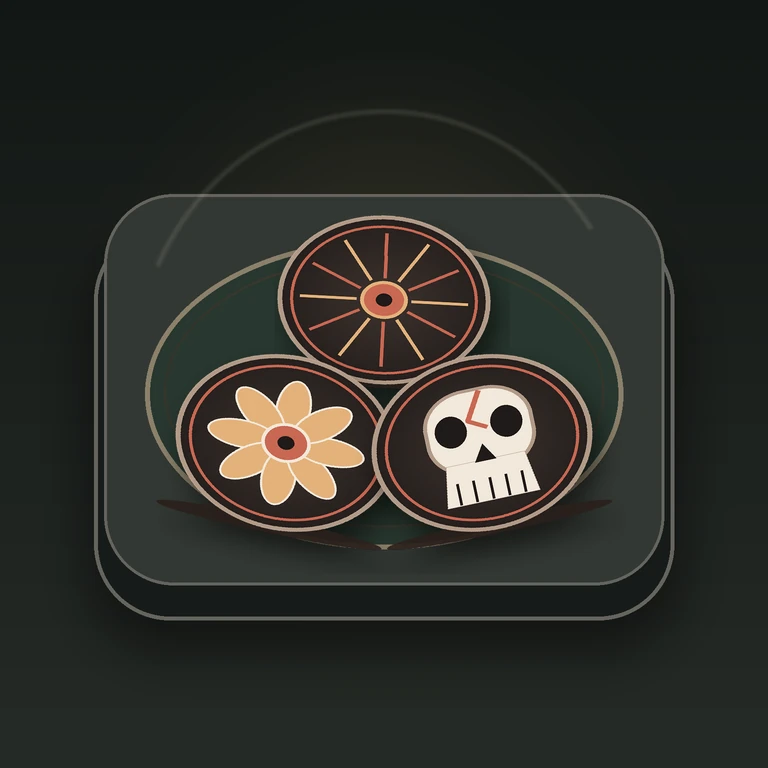
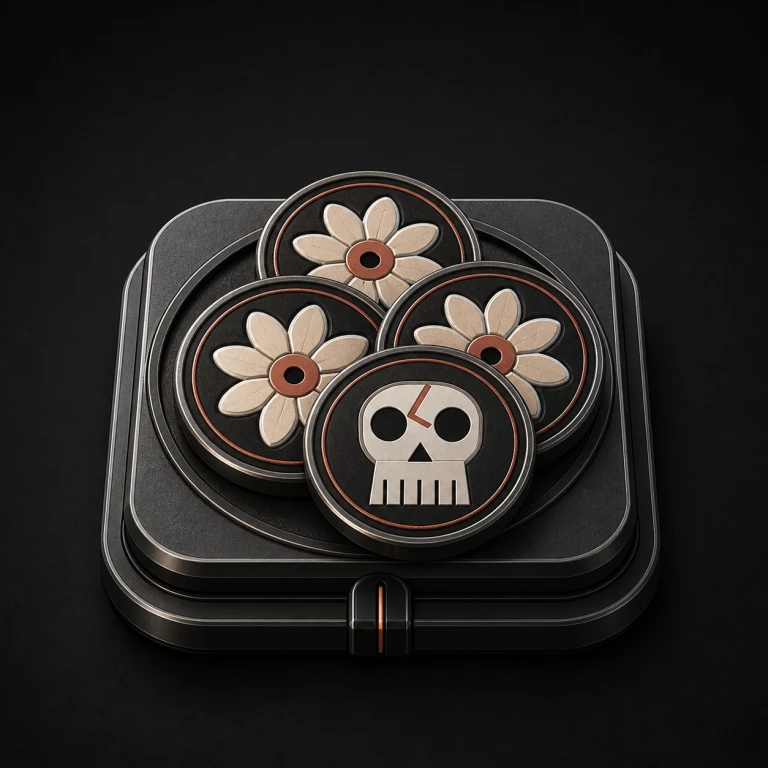
feat: refresh community game catalog artwork

diff --git a/plugin-bomb-people/tools/build_assets.py b/plugin-bomb-people/tools/build_assets.py
@@ -3,7 +3,7 @@ from __future__ import annotations
 from pathlib import Path
 
 import numpy as np
-from PIL import Image, ImageDraw
+from PIL import Image
 
 
 ROOT = Path(__file__).resolve().parents[1]
@@ -118,56 +118,10 @@ def build_items() -> None:
                 rendered.save(target / f"item-{item_name}.png", "PNG", optimize=True)
 
 
-def rounded_gradient(size: int, top: tuple[int, int, int], bottom: tuple[int, int, int]) -> Image.Image:
-    result = Image.new("RGB", (size, size))
-    pixels = result.load()
-    for y in range(size):
-        ratio = y / max(1, size - 1)
-        color = tuple(round(top[index] * (1 - ratio) + bottom[index] * ratio) for index in range(3))
-        for x in range(size):
-            pixels[x, y] = color
-    return result
-
-
-def build_catalog_icon(output_name: str, light: bool) -> None:
-    size = 768
-    if light:
-        image = rounded_gradient(size, (244, 244, 240), (193, 198, 199))
-        grid = (96, 105, 107)
-        base = (223, 225, 219)
-        edge = (75, 80, 80)
-        hard = (86, 91, 90)
-        soft = (164, 116, 58)
-    else:
-        image = rounded_gradient(size, (35, 38, 40), (9, 11, 13))
-        grid = (85, 91, 92)
-        base = (29, 32, 33)
-        edge = (137, 143, 142)
-        hard = (105, 111, 110)
-        soft = (169, 112, 51)
-    draw = ImageDraw.Draw(image)
-    draw.rounded_rectangle((74, 74, 694, 694), radius=78, fill=base, outline=edge, width=8)
-    for offset in range(136, 650, 64):
-        draw.line((136, offset, 632, offset), fill=grid, width=2)
-        draw.line((offset, 136, offset, 632), fill=grid, width=2)
-    for x, y, color in (
-        (152, 152, hard), (536, 152, soft), (152, 536, soft), (536, 536, hard),
-        (216, 280, hard), (472, 408, soft),
-    ):
-        draw.rounded_rectangle((x, y, x + 60, y + 60), radius=12, fill=color, outline=edge, width=3)
-    with Image.open(ASSETS / "items" / "item-bomb_up.png") as icon_source:
-        icon = icon_source.convert("RGBA")
-        icon.thumbnail((390, 390), Image.Resampling.LANCZOS)
-        image.paste(icon, ((size - icon.width) // 2, (size - icon.height) // 2), icon)
-    image.save(ASSETS / output_name, "WEBP", quality=90, method=6)
-
-
 def main() -> None:
     build_maps()
     build_players()
     build_items()
-    build_catalog_icon("catalog-dark.webp", light=False)
-    build_catalog_icon("catalog-light.webp", light=True)
     print(f"Built assets in {ASSETS}")
 
 

diff --git a/plugin-math-runner/SOURCES.md b/plugin-math-runner/SOURCES.md
@@ -1,6 +1,6 @@
 # 视觉资产来源与生成提示
 
-所有视觉资产均为本项目生成的原创设计，不包含第三方商标、Logo 或受限素材。生成方式为 Codex 内置 `imagegen`，未使用外部图片参考。
+所有视觉资产均为本项目生成的原创设计，不包含第三方商标、Logo 或受限素材。生成方式为 Codex 内置 `imagegen`；大厅图标仅使用本项目官方游戏图标作为产品风格参考。
 
 ## 1. 场景总览
 
@@ -24,8 +24,8 @@
 
 - 输出：`frontend/assets/catalog-dark.webp`、`frontend/assets/catalog-light.webp`
 - 用例：`stylized-concept` + `precise-object-edit`
-- 深色版提示摘要：方形不透明深石墨产品背景；中央双层基座上的单一三跑道桥梁模型，三块空白题牌、一个低矮琥珀地面障碍和一个青色玻璃高空横梁；略俯视 3/4 镜头；明确禁止四向路口、人物、文字、公式、Logo、水印、徽章或多余物件。
-- 浅色版编辑约束：严格保持深色版的三跑道几何、镜头、构图、比例、障碍数量、位置和光影关系，仅将背景与主体材质切换为暖象牙/浅石材，同时保留石墨轮廓、琥珀障碍和少量青色玻璃边。
+- 深色版提示摘要：方形不透明深石墨产品背景；中央双层基座上的紧凑四向桥梁路口，四个出口分别使用加、减、乘、除浮雕门牌，中央放置抽象跑者标记，并以克制琥珀光带标记一条选择路线；略俯视 3/4 镜头；禁止人物、算式、长文字、Logo、水印、徽章或多余物件。
+- 浅色版编辑约束：严格保持深色版的四向几何、镜头、构图、门牌符号、中央标记与路线位置，仅将背景与主体材质切换为暖象牙、瓷面和浅色金属，同时保留清晰阴影与琥珀光带。
 - 发布整理：从内置工具生成的正方形 PNG 等比缩放为 `768 × 768`，以质量 90 写入不透明 sRGB WebP。
 
 ## 5. 运行时峡谷桥梁背景

diff --git a/skull-game-model/README.md b/skull-game-model/README.md
@@ -26,7 +26,6 @@
 | `assets/player-cards/` | 18 张生成 SVG、总览图与哈希清单 |
 | `scripts/validate_models.py` | 数据与跨字段不变量校验 |
 | `scripts/generate_player_cards.py` | 从模型重建全部玩家卡牌 SVG |
-| `scripts/generate_catalog_artwork.py` | 重建深浅大厅 WebP 图标 |
 | `SOURCES.md` | 规则来源、版本取舍与版权边界 |
 
 ## 规则基线
@@ -91,7 +90,7 @@ frontend/node_modules/.bin/vitest run --config game-hall-third-party-games/skull
 frontend/node_modules/.bin/vue-tsc --noEmit -p game-hall-third-party-games/skull-game-model/frontend/tsconfig.json
 ```
 
-Windows PowerShell 中将上述两个前端可执行文件分别写为 `vitest.cmd` 和 `vue-tsc.cmd`。前端配置保存在本插件目录中，只复用大厅已安装的 Vue/Vitest 工具链与公开 SDK。模型校验只依赖 Python 标准库；PDF 构建需要 `reportlab`；大厅图标重建需要 Pillow。
+Windows PowerShell 中将上述两个前端可执行文件分别写为 `vitest.cmd` 和 `vue-tsc.cmd`。前端配置保存在本插件目录中，只复用大厅已安装的 Vue/Vitest 工具链与公开 SDK。模型校验只依赖 Python 标准库；PDF 构建需要 `reportlab`。
 
 确定性后端用例会分别对 3、4、5、6 人验证两轮挑战获胜、仅剩一人获胜、赢家/输家角色、战绩记录和所有玩家结算视图；前端用例也会分别渲染四种人数的座位与结算页。
 
@@ -110,12 +109,11 @@ SKULL_SOAK_SAMPLES=100 python -m pytest game-hall-third-party-games/skull-game-m
 
 PowerShell 可先执行 `$env:SKULL_SOAK_SAMPLES = "100"`，再运行同一条 pytest 命令。
 
-在本目录重建规则 PDF、卡牌和大厅图标：
+在本目录重建规则 PDF、卡牌并校验模型：
 
 ```bash
 python scripts/build_rulebook.py
 python scripts/generate_player_cards.py
-python scripts/generate_catalog_artwork.py
 python scripts/validate_models.py
 ```
 

diff --git a/skull-game-model/assets/README.md b/skull-game-model/assets/README.md
@@ -1,4 +1,4 @@
-# 原创占位视觉资产
+# 原创视觉资产
 
 - `card-components.svg`：花牌、骷髅牌、统一牌背与最后机会牌的语义组件。
 - `table-scene.svg`：三人竞标阶段的桌面布局、公共信息和私有信息层级。
@@ -8,8 +8,8 @@
 - `../frontend/assets/catalog-dark.webp`：深色大厅使用的 768 × 768 游戏图标。
 - `../frontend/assets/catalog-light.webp`：浅色大厅使用的 768 × 768 游戏图标。
 
-这些 SVG 都是为软件建模新绘制的中性占位图，不包含官方 Logo、牌面图案、部落插画或扫描素材。它们可以用于评审信息架构和交互关系；正式插件仍需根据大厅的四套主题、768 x 768 目录图标规范和移动端布局重新制作运行资产。
+这些 SVG 都是为软件建模新绘制的中性视觉资产，不包含官方 Logo、牌面图案、部落插画或扫描素材。
 
 `player-cards/` 中的文件由 `model/player-card-models.json` 和 `scripts/generate_player_cards.py` 生成。修改模型后应重新运行生成器，不要直接编辑 `generated/` 内文件。六套牌背的图案和颜色互不相同，但同一玩家的三枚花牌和一枚骷髅牌必须共用同一张牌背。
 
-大厅图标由 `scripts/generate_catalog_artwork.py` 重建。深浅版使用完全相同的牌、基座和镜头，只切换背景与材质；最终运行时仅保留两张 WebP。
+大厅图标是独立维护的最终发布资产，不由卡牌生成脚本重建。深浅版使用相同的四枚牌、基座和镜头，只切换背景、材质与光照；运行时仅保留两张 WebP。

diff --git a/plugin-bomb-people/README.md b/plugin-bomb-people/README.md
@@ -106,7 +106,7 @@ plugin-bomb-people/
 └── 炸弹人素材/              # 用户提供的原始缓存，不会被构建脚本覆盖
 ```
 
-`tools/build_assets.py` 将缓存中的 10 张最终地图、8 位角色和 4 组道具图集转换成运行时资源，同时生成符合大厅规格的 `768 × 768` 深浅 WebP 图标。
+`tools/build_assets.py` 只将缓存中的 10 张最终地图、8 位角色和 4 组道具图集转换成运行时资源。大厅深浅图标是独立维护的最终发布资产，脚本不会覆盖它们。
 
 ## 验证
 
